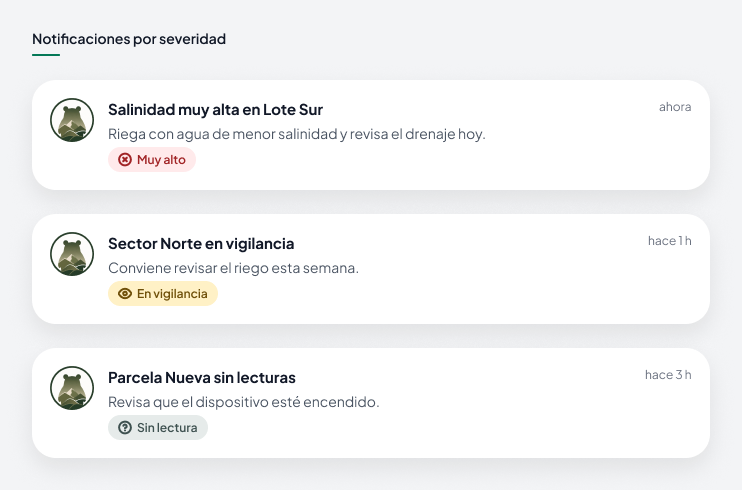
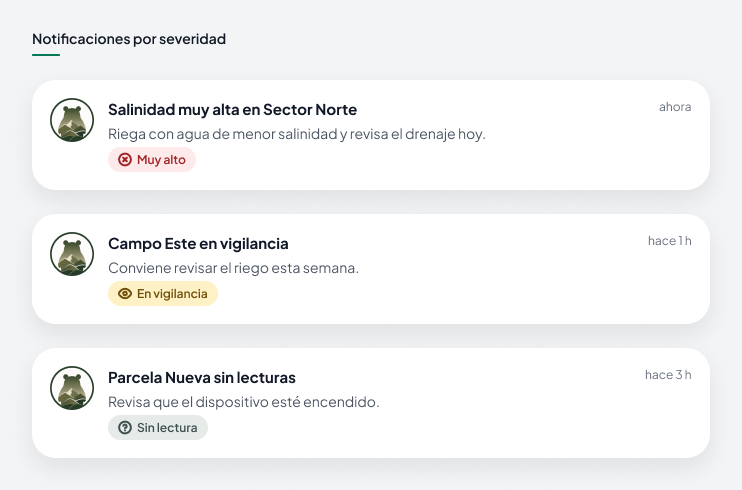
docs(chapter-5): correct crop thresholds and sources in style guidelines

Changed region(s): [[0.124, 0.4592, 0.403, 0.5204], [0.341, 0.2143, 0.496, 0.2449]]

diff --git a/chapters/chapter5.md b/chapters/chapter5.md
@@ -194,7 +194,15 @@ Los niveles de salinidad tienen colores propios, independientes del verde de mar
 <p><em>Figura 5.17. Estados en contexto.</em></p>
 </div>
 
-En contexto, cada parcela de la lista lleva una barra lateral con el color de su nivel, el valor de ECe en grande y la píldora con ícono y palabra. Los valores de ejemplo muestran que el nivel depende del cultivo: 3,4 dS/m es *muy alto* para el arándano (umbral 2,5) y 3,5 dS/m es *en vigilancia* para el palto (umbral 3,5).
+En contexto, cada parcela de la lista lleva una barra lateral con el color de su nivel, el valor de ECe en grande y la píldora con ícono y palabra. Los valores son los de las parcelas de demostración de la Web App y muestran que el nivel depende del cultivo: la misma lectura de 1,62 dS/m es *muy alto* en el palto de Sector Norte y solo *alto* en la uva de mesa de El Mirador.
+
+| Cultivo | Umbral ECe | Pérdida por dS/m sobre el umbral | Fuente |
+|---|---|---|---|
+| Uva de mesa | 1,5 dS/m | 9,6 % | Maas y Hoffman (1977), recogido por Ayers y Westcot (1985). |
+| Palto | 1,1 dS/m (referencial) | Sin dato publicado | Umbral de agua de riego de 0,75 dS/m citado por Acosta-Rangel et al. (2019), convertido a ECe con la relación ECe ≈ 1,5 × ECw de Ayers y Westcot (1985). |
+| Arándano | 1,5 dS/m (referencial) | Sin dato publicado | Machado et al. (2014): el crecimiento de raíces y hojas se reduce por encima de 1,5 dS/m. |
+
+El palto figura como cultivo sensible en las tablas de FAO, pero sin un umbral de ECe propio; por eso su valor se marca como referencial y, al igual que en el arándano, la plataforma no estima pérdida de rendimiento sin una pendiente publicada.
 
 <div align="center">
 <img src="../assets/style-guidelines/sg-02-aplicacion.png" alt="Sección de planes del Landing Page" width="742">
@@ -205,7 +213,7 @@ La sección de planes del Landing Page (captura real) aplica la paleta: fondo bl
 
 #### Typography
 
-Se usa una sola familia: **Plus Jakarta Sans**, la del Landing Page, cargada desde Google Fonts. Es una sans-serif geométrica de trazo abierto, pensada para pantallas, con pesos de 200 a 800 y cobertura completa del español y del inglés. Una sola familia simplifica la carga, algo importante con conexiones rurales lentas, y la jerarquía se construye con tamaño y peso.
+Se usa una sola familia: **Plus Jakarta Sans**, la del Landing Page, que la carga desde Google Fonts; la Web App la incluye dentro de la propia aplicación (con `@fontsource`), para no depender de la red en zonas con señal intermitente. Es una sans-serif geométrica de trazo abierto, pensada para pantallas, con pesos de 200 a 800 y cobertura completa del español y del inglés. Una sola familia simplifica la carga, algo importante con conexiones rurales lentas, y la jerarquía se construye con tamaño y peso.
 
 <div align="center">
 <img src="../assets/style-guidelines/sg-03-familia.png" alt="Muestra de Plus Jakarta Sans" width="900">
@@ -312,7 +320,7 @@ Se usan **íconos de línea** de 24 × 24 px con trazo de 2 px y extremos redond
 
 De izquierda a derecha: el ícono suelto en 16, 20, 24 y 32 px; dentro de un círculo verde claro de 40 y 48 px (datos y capacidades); dentro de un círculo verde de 52 px (beneficios destacados); la flecha en el círculo blanco de 34 px de los botones; y la viñeta de 22 px de las listas de planes.
 
-Todo ícono con función lleva texto visible o `aria-label`; los decorativos llevan `aria-hidden="true"`; no se mezclan íconos rellenos con íconos de línea; y los íconos de estado siempre acompañan a la palabra del estado.
+Todo ícono con función lleva texto visible o `aria-label`; los decorativos llevan `aria-hidden="true"`; no se mezclan íconos rellenos con íconos de línea (la Web App usa Material Icons en su variante *Outlined*, con los mismos nombres de ícono); y los íconos de estado siempre acompañan a la palabra del estado.
 
 #### Tone of voice
 
@@ -329,7 +337,7 @@ El nivel de detalle cambia según quién lee: al **productor**, frases de hasta 
 
 | Contexto | Así sí | Así no |
 |---|---|---|
-| Alerta crítica | «Salinidad muy alta en Lote Sur. Riega con agua de menor salinidad y revisa el drenaje hoy.» | «¡¡ALERTA!! EC 6.2 dS/m excede el umbral ECe del cultivo!!!» |
+| Alerta crítica | «Salinidad muy alta en Sector Norte. Riega con agua de menor salinidad y revisa el drenaje hoy.» | «¡¡ALERTA!! EC 6.2 dS/m excede el umbral ECe del cultivo!!!» |
 | Estado vacío | «Aún no hay lecturas. Conecta tu dispositivo para ver la salinidad de esta parcela.» | «Error 404: no se encontraron datos de telemetría.» |
 | Error de formulario | «Usa al menos 12 caracteres.» | «Contraseña inválida.» |
 | Logro | «La salinidad de La Quebrada bajó a nivel normal. El lavado de sales funcionó.» | «¡¡Felicidades, campeón!!» |
@@ -479,7 +487,7 @@ La puesta en marcha se hace sin herramientas y cada paso tiene una respuesta vis
 <p><em>Figura 5.43. Serie de tiempo de ECe. Datos ilustrativos.</em></p>
 </div>
 
-El gráfico tipo de la plataforma muestra la ECe de una parcela durante un mes: línea `#047857` de 3 px; bandas de fondo con los colores de los cuatro niveles, para leer el nivel sin leyenda; umbral del cultivo como línea discontinua `#A12426` con su etiqueta; eje Y desde cero con la unidad; fechas cortas en el eje X; y la etiqueta directa del valor actual junto al último punto.
+El gráfico tipo de la plataforma muestra la ECe de una parcela durante un mes (en la figura, el arándano de Campo Este frente a su umbral de 1,5 dS/m): línea `#047857` de 3 px; bandas de fondo con los colores de los cuatro niveles, para leer el nivel sin leyenda; umbral del cultivo como línea discontinua `#A12426` con su etiqueta; eje Y desde cero con la unidad; fechas cortas en el eje X; y la etiqueta directa del valor actual junto al último punto.
 
 <div align="center">
 <img src="../assets/style-guidelines/sg-06-grafico-barras.png" alt="Barras de ECe por parcela con umbral de cada cultivo" width="900">
@@ -504,7 +512,7 @@ De izquierda a derecha: el **foco visible**, un anillo azul `#2563EB` en todo el
 | Comprensible | Idioma declarado en `lang`; mensajes de error que explican cómo corregir; etiquetas visibles; navegación igual en todas las páginas. |
 | Robusto | HTML semántico con `aria-label`, `aria-labelledby`, `aria-expanded`, `aria-controls` y `aria-pressed`; cambios de estado anunciados con `aria-live` en las aplicaciones. |
 
-El Landing Page ya aplica `aria-label` en la navegación y el menú, `aria-labelledby` en cada sección, `aria-expanded` y `aria-controls` en el menú móvil, `aria-pressed` en el selector de idioma, textos alternativos y `prefers-reduced-motion`. La Web App incorpora además un enlace «Saltar al contenido», `aria-current="page"` y `role="alert"` en los errores.
+El Landing Page ya aplica `aria-label` en la navegación y el menú, `aria-labelledby` en cada sección, `aria-expanded` y `aria-controls` en el menú móvil, `aria-pressed` en el selector de idioma, textos alternativos y `prefers-reduced-motion`. La Web App incorpora además un enlace «Saltar al contenido», `aria-current="page"`, `role="alert"` en los errores, avisos con `role="status"` y `aria-live` cuando se reconoce una alerta o se registra una acción, y conserva en la dirección web los filtros de Alertas y la pestaña abierta del detalle de parcela, para poder compartir o recuperar la vista.
 
 **Internacionalización.** Todos los productos se ofrecen en inglés (en_US) y español latinoamericano (es_419) con el selector EN / ES; los textos viven en archivos de traducción, las fechas siguen el formato de cada idioma y las unidades se mantienen (3.5 dS/m, 4.2 ha, 23.8 °C).
 

diff --git a/chapters/conclusions.md b/chapters/conclusions.md
@@ -16,7 +16,9 @@ El contraste entre los doce Hypothesis Statements y un resultado de comportamien
 
 Las siguientes fuentes sustentan las cifras y afirmaciones citadas en los Capítulos I y II. Se presentan en orden alfabético según el formato APA 7.ª edición.
 
+- Acosta-Rangel, A. M., Li, R., Celis, N., Suarez, D. L., Santiago, L. S., Arpaia, M. L., & Mauk, P. A. (2019). The physiological response of 'Hass' avocado to salinity as influenced by rootstock. *Scientia Horticulturae, 256*, 108629. https://doi.org/10.1016/j.scienta.2019.108629
 - Aimituma-Franco, K. M., Llanqui-Ticona, S. E., & Fernández-Rojas, H. (2023). Biorremediación de suelos salinos con enmiendas orgánicas de estiércol de cuy y vacuno, Cusco-Perú. *Revista Amazónica de Ciencias Ambientales y Ecológicas, 2*(1), e388. https://doi.org/10.51252/reacae.v2i1.e388
+- Ayers, R. S., & Westcot, D. W. (1985). *Water quality for agriculture* (FAO Irrigation and Drainage Paper 29 Rev. 1). FAO. https://www.fao.org/4/t0234e/t0234e00.htm
 - Campoverde, L. (2012). *Evaluación de áreas agrícolas con problemas de salinización para uso potencial en acuicultura en el valle bajo del río Santa, Áncash-Perú* [Tesis de doctorado, Universidad Nacional de Trujillo]. http://dspace.unitru.edu.pe/handle/UNITRU/5928
 - Colegio de Ingenieros del Perú, Consejo Departamental de Lima [CIP-CD Lima]. (s.f.). *Acerca del Capítulo*. Capítulo de Ingeniería Agronómica y Zootecnia. https://agronomica.cdlima.org.pe/acerca-del-capitulo/
 - Congreso de la República del Perú. (2020). *Proyecto de Ley 7786/2020-CR, que declara de interés nacional la prevención de la salinización del suelo agrícola*.
@@ -28,6 +30,7 @@ Las siguientes fuentes sustentan las cifras y afirmaciones citadas en los Capít
 - Instituto Nacional de Estadística e Informática [INEI]. (s.f.). *Pequeños y medianos productores agropecuarios destinan el 78% del volumen de su producción a la venta* [Nota de prensa, Encuesta Nacional Agropecuaria 2015]. https://m.inei.gob.pe/prensa/noticias/pequenos-y-medianos-productores-agropecuarios-destinan-el-78-del-volumen-de-su-produccion-a-la-venta-9153/
 - Instituto Nacional de Innovación Agraria [INIA]. (2024). *Información técnica sobre salinidad de suelos agrícolas*.
 - Maas, E. V., & Hoffman, G. J. (1977). Crop salt tolerance: Current assessment. *Journal of the Irrigation and Drainage Division, 103*(2), 115–134. https://doi.org/10.1061/JRCEA4.0001137
+- Machado, R. M. A., Bryla, D. R., & Vargas, O. (2014). Effects of salinity induced by ammonium sulfate fertilizer on root and shoot growth of highbush blueberry. *Acta Horticulturae, 1017*, 407–414. https://doi.org/10.17660/ActaHortic.2014.1017.49
 - Ministerio de Desarrollo Agrario y Riego [MIDAGRI]. (2026). *Midagri: INIA implementa moderno laboratorio para fortalecer la agricultura en Puno* [Nota de prensa]. https://www.gob.pe/institucion/inia/noticias/1376064-midagri-inia-implementa-moderno-laboratorio-para-fortalecer-la-agricultura-en-puno
 - Ministerio de Desarrollo Agrario y Riego [MIDAGRI]. (s.f.). *Suelo*. https://www.midagri.gob.pe/portal/datero/43-sector-agrario/suelo
 - Organismo Supervisor de Inversión Privada en Telecomunicaciones [OSIPTEL]. (2026). *Erestel 2025: aumenta a 96 % los hogares peruanos que tienen acceso a internet fijo o móvil* [Nota de prensa]. https://www.gob.pe/institucion/osiptel/noticias/1393824-erestel-2025-aumenta-a-96-los-hogares-peruanos-que-tienen-acceso-a-internet-fijo-o-movil

diff --git a/versions.md b/versions.md
@@ -85,6 +85,7 @@
 | 0.0.81 | 23/09/2026 | Andreow Jomark Santiago Peña | Capítulo V: sección 5.1 Style Guidelines rehecha en Figma con 46 figuras por tema (marca, color, tipografía y espacio, íconos y componentes, mobile e IoT, datos y accesibilidad), valores anotados y explicación en el texto. |
 | 0.0.82 | 23/09/2026 | Andreow Jomark Santiago Peña | Capítulo V: sección 5.3 Landing Page Mock-up actualizada con los botones en `#047857` y renumeración de figuras. |
 | 0.0.83 | 23/09/2026 | Andreow Jomark Santiago Peña | Capítulo V: sección 5.2 Information Architecture del Landing Page (organization, labeling, SEO y meta tags, searching y navigation systems) con nueve diagramas en Figma; enlaces de Figma por página en 5.1 y 5.3. |
+| 0.0.84 | 25/09/2026 | Andreow Jomark Santiago Peña | Capítulo V: sección 5.1 con umbrales reales de palto, uva de mesa y arándano (tabla con fuentes), figuras de estados, app Android, notificaciones y gráficos actualizadas, y estado real de la Web App; bibliografía con tres fuentes nuevas. |
 
 # Project Report Collaboration Insights
 
